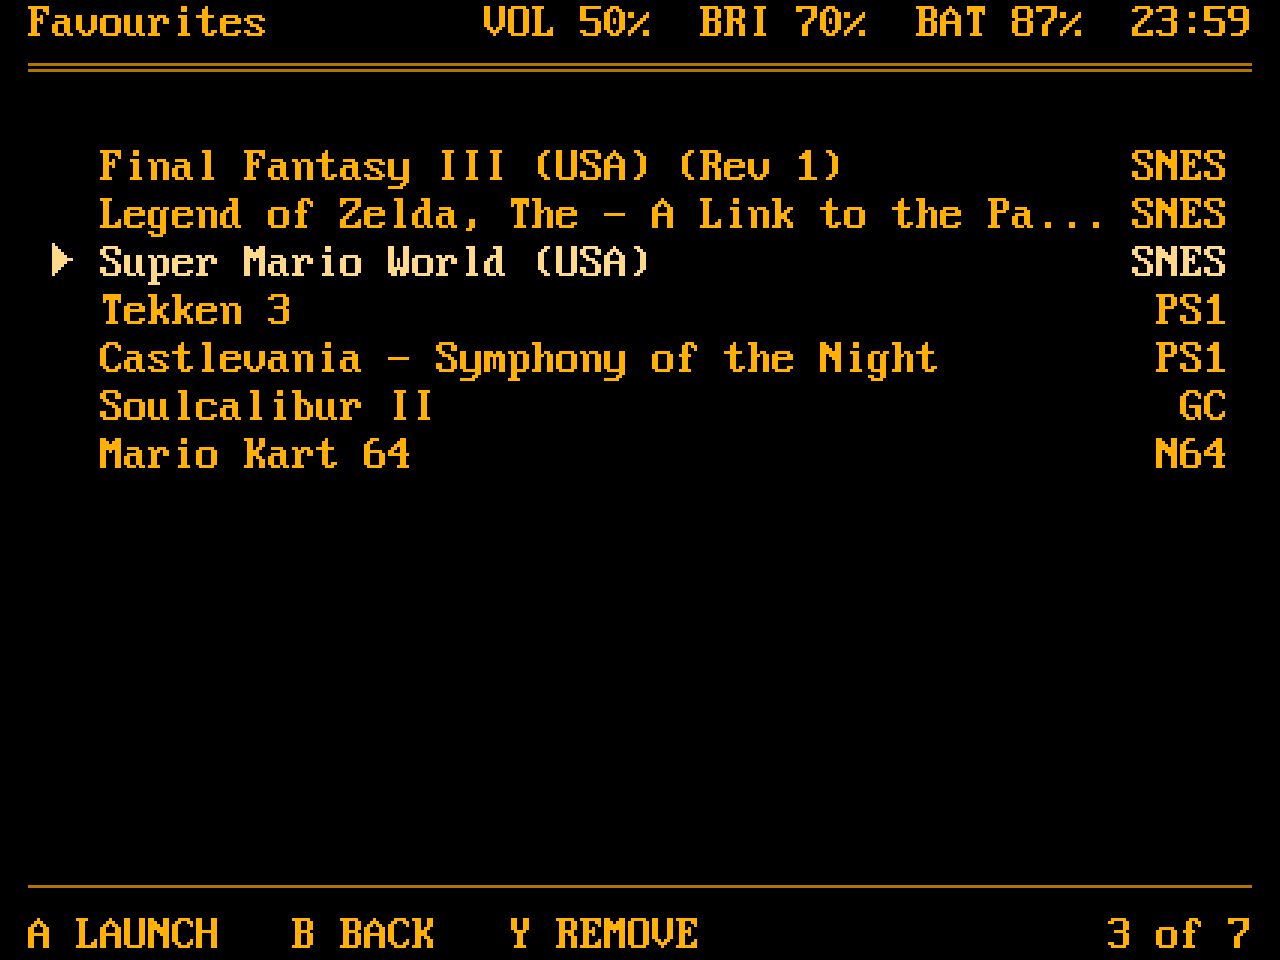
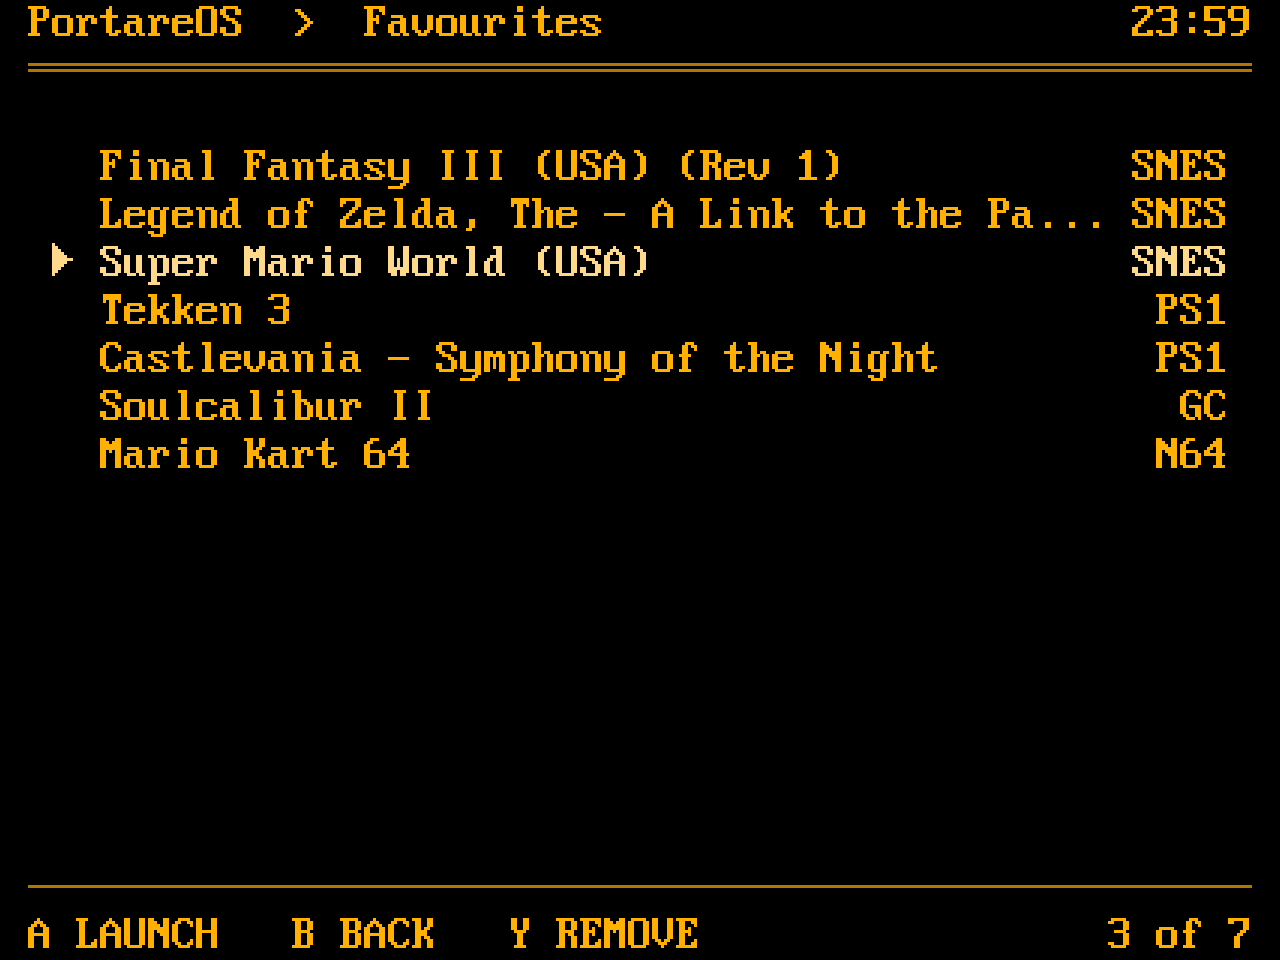
mockup: a game list's header is its crumb and the clock
No volume, brightness or battery on a list of games, and no count of
its rows up there; the Systems screen keeps the status.

diff --git a/tools/mockup.py b/tools/mockup.py
@@ -28,9 +28,17 @@ RULE = " " + "\u2550" * (COLS - 2)
 # crumb cut to end two columns short of it. On the device the games
 # screen's crumb is the system's name alone.
 STATUS = "VOL 50%  BRI 70%  BAT 87%  23:59 "
+CLOCK = "23:59 "
 def header(crumb, status=STATUS):
     room = COLS - 1 - len(status) - 2 - 1
     return row(" " + crumb[:room], status)
+
+# A list of games is a step down from the Systems screen, and its header
+# says so: the crumb, and the clock alone at the right. Volume, brightness
+# and battery stay on the Systems screen; a game list is not the place to
+# read them, and a count of the rows is in the footer already.
+def crumb(name):
+    return header("PortareOS  \u203a  " + name, CLOCK)
 THIN = " " + "\u2500" * (COLS - 2)
 
 SYS = [("GameCube", 24), ("Nintendo 64", 9), ("PlayStation", 112),
@@ -45,7 +53,7 @@ systems += [THIN, row(" A SELECT   X SETTINGS", "12 found ")]
 
 GAMES = ["Tekken 2", "Tekken 3", "Tomb Raider", "Tony Hawk's Pro Skater 2",
          "Vagrant Story", "Wipeout XL", "Xenogears"]
-games = [header("PlayStation"), RULE, ""]
+games = [crumb("PlayStation"), RULE, ""]
 games += [item(n == "Tekken 3", n) for n in GAMES]
 games += [""] * (ROWS - 2 - len(games))
 games += [THIN, row(" A LAUNCH   B BACK", "8 of 112 ")]
@@ -260,7 +268,7 @@ SNES = [("Chrono Trigger (USA)", False),
         ("Teenage Mutant Ninja Turtles IV - Turtles in Time (USA)", False),
         ("Yoshi's Island - Super Mario World 2 (USA) (Rev 1)", False)]
 def games_screen(selected, shift=0):
-    lines = [header("Super Nintendo"), RULE, ""]
+    lines = [crumb("Super Nintendo"), RULE, ""]
     lines += [game(t == selected, t, shift=shift) for t, _ in SNES]
     n = 1 + [t for t, _ in SNES].index(selected)
     lines += [""] * (ROWS - 2 - len(lines))
@@ -281,7 +289,7 @@ RECENT = [("Super Mario World", "SNES", "today"), ("Tekken 3", "PS1", "today"),
 def across(sel, title, right):
     w = COLS - 4 - len(right) - 3
     return item(sel, title if len(title) <= w else title[:w - 3] + "...", right)
-recent = [header("Recently played"), RULE, ""]
+recent = [crumb("Recently played"), RULE, ""]
 recent += [across(i == 0, t, "%-5s%9s" % (sy, d)) for i, (t, sy, d) in enumerate(RECENT)]
 recent += [""] * (ROWS - 2 - len(recent))
 recent += [THIN, games_footer(False, 1, 10)]
@@ -295,7 +303,7 @@ FAVS = [("Final Fantasy III (USA) (Rev 1)", "SNES"),
         ("Super Mario World (USA)", "SNES"), ("Tekken 3", "PS1"),
         ("Castlevania - Symphony of the Night", "PS1"),
         ("Soulcalibur II", "GC"), ("Mario Kart 64", "N64")]
-favourites = [header("Favourites"), RULE, ""]
+favourites = [crumb("Favourites"), RULE, ""]
 favourites += [across(i == 2, t, sy) for i, (t, sy) in enumerate(FAVS)]
 favourites += [""] * (ROWS - 2 - len(favourites))
 favourites += [THIN, games_footer(True, 3, 7)]

diff --git a/docs/lists.md b/docs/lists.md
@@ -15,9 +15,11 @@ comes first because it needs no curation. The systems section keeps its
 title; its count, `12 found`, sits at the right end of the footer, as the
 position does on the games screens, and the plain Systems screen without
 Quick Access drops the title row and the blank under it altogether, two
-more systems on screen. The header is the device's status on every
-screen, with the clock at the right edge; no screen counts its rows up
-there. The games screen no longer names the emulator under the
+more systems on screen. The Systems screen keeps the device's status in
+its header. A list of games, Recently played and Favourites included,
+carries only its crumb and the clock at the right edge: no volume,
+brightness or battery there, and no count of its rows, which the footer
+has. The games screen no longer names the emulator under the
 list; which core runs a system is not the player's concern.
 
 ![Systems with Quick Access](images/systems-quick-access.png)
